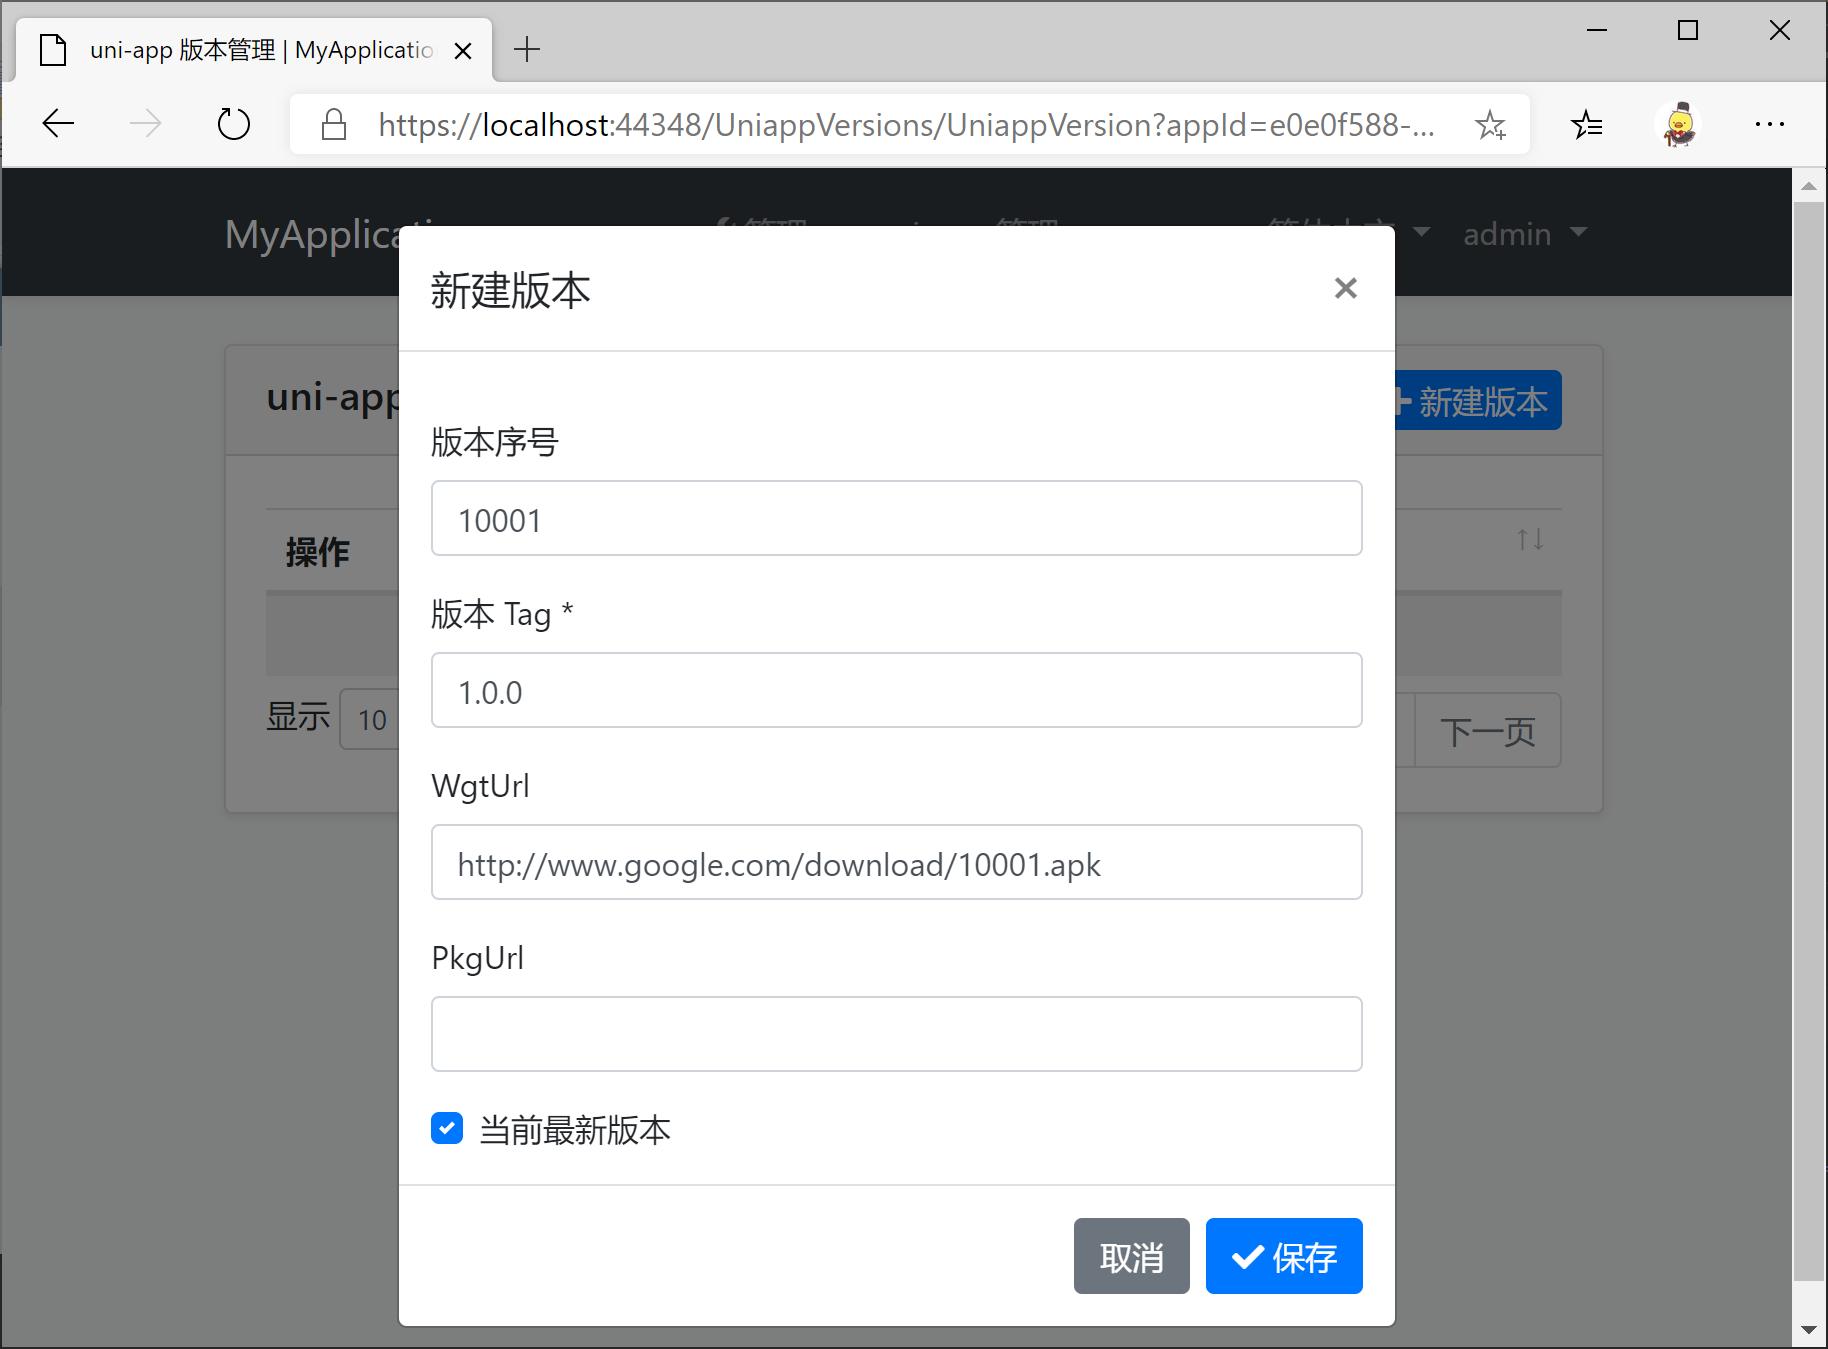
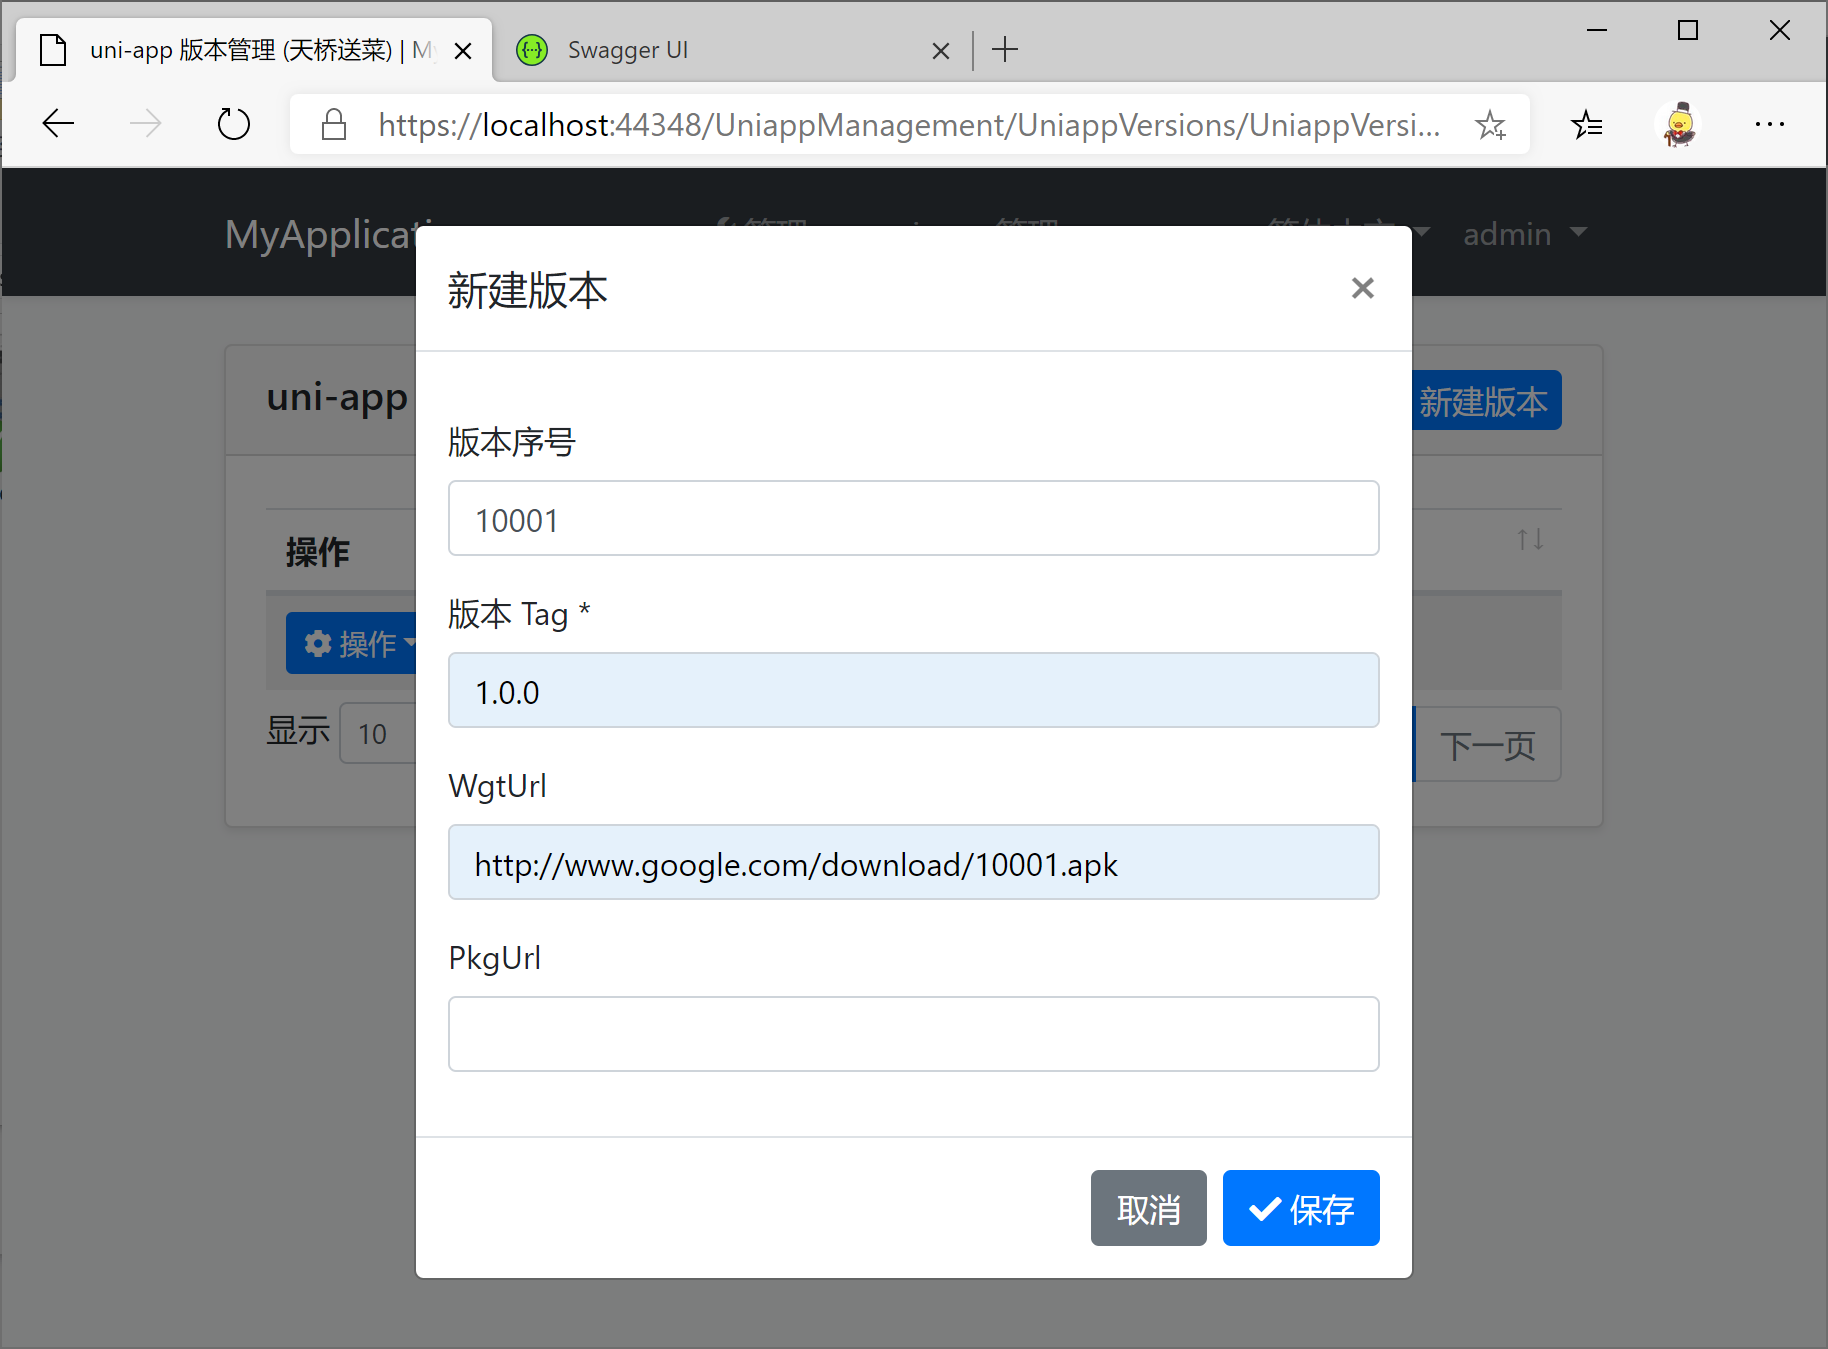
Remove IsLatest from UniappVersion.

diff --git a/src/EasyAbp.UniappManagement.Web/Pages/UniappManagement/UniappVersions/UniappVersion/Index.js b/src/EasyAbp.UniappManagement.Web/Pages/UniappManagement/UniappVersions/UniappVersion/Index.js
@@ -45,8 +45,7 @@ $(function () {
                 }
             },
             { data: "buildNumber" },
-            { data: "tag" },
-            { data: "isLatest" },
+            { data: "tag" }
         ]
     }));
 

diff --git a/src/EasyAbp.UniappManagement.Domain/UniappVersions/UniappVersion.cs b/src/EasyAbp.UniappManagement.Domain/UniappVersions/UniappVersion.cs
@@ -22,8 +22,6 @@ namespace EasyAbp.UniappManagement.UniappVersions
         [CanBeNull]
         public virtual string PkgUrl { get; protected set; }
         
-        public virtual bool IsLatest { get; protected set; }
-        
         protected UniappVersion() { }
 
         public UniappVersion(
@@ -33,8 +31,7 @@ namespace EasyAbp.UniappManagement.UniappVersions
             long buildNumber,
             [NotNull] string tag,
             [CanBeNull] string wgtUrl,
-            [CanBeNull] string pkgUrl,
-            bool isLatest) : base(id)
+            [CanBeNull] string pkgUrl) : base(id)
         {
             TenantId = tenantId;
             AppId = appId;
@@ -42,7 +39,6 @@ namespace EasyAbp.UniappManagement.UniappVersions
             Tag = tag;
             WgtUrl = wgtUrl;
             PkgUrl = pkgUrl;
-            IsLatest = isLatest;
         }
     }
 }

diff --git a/host/EasyAbp.UniappManagement.Web.Unified/Migrations/20200319121848_RemovedIsLatest.Designer.cs b/host/EasyAbp.UniappManagement.Web.Unified/Migrations/20200319121848_RemovedIsLatest.Designer.cs
@@ -4,14 +4,16 @@ using EasyAbp.UniappManagement.EntityFrameworkCore;
 using Microsoft.EntityFrameworkCore;
 using Microsoft.EntityFrameworkCore.Infrastructure;
 using Microsoft.EntityFrameworkCore.Metadata;
+using Microsoft.EntityFrameworkCore.Migrations;
 using Microsoft.EntityFrameworkCore.Storage.ValueConversion;
 
 namespace EasyAbp.UniappManagement.Migrations
 {
     [DbContext(typeof(UnifiedDbContext))]
-    partial class UnifiedDbContextModelSnapshot : ModelSnapshot
+    [Migration("20200319121848_RemovedIsLatest")]
+    partial class RemovedIsLatest
     {
-        protected override void BuildModel(ModelBuilder modelBuilder)
+        protected override void BuildTargetModel(ModelBuilder modelBuilder)
         {
 #pragma warning disable 612, 618
             modelBuilder

diff --git a/host/EasyAbp.UniappManagement.Web.Unified/Migrations/20200319121848_RemovedIsLatest.cs b/host/EasyAbp.UniappManagement.Web.Unified/Migrations/20200319121848_RemovedIsLatest.cs
@@ -1,0 +1,24 @@
+using Microsoft.EntityFrameworkCore.Migrations;
+
+namespace EasyAbp.UniappManagement.Migrations
+{
+    public partial class RemovedIsLatest : Migration
+    {
+        protected override void Up(MigrationBuilder migrationBuilder)
+        {
+            migrationBuilder.DropColumn(
+                name: "IsLatest",
+                table: "UniappManagementUniappVersions");
+        }
+
+        protected override void Down(MigrationBuilder migrationBuilder)
+        {
+            migrationBuilder.AddColumn<bool>(
+                name: "IsLatest",
+                table: "UniappManagementUniappVersions",
+                type: "bit",
+                nullable: false,
+                defaultValue: false);
+        }
+    }
+}

diff --git a/src/EasyAbp.UniappManagement.EntityFrameworkCore/UniappVersions/UniappVersionRepository.cs b/src/EasyAbp.UniappManagement.EntityFrameworkCore/UniappVersions/UniappVersionRepository.cs
@@ -19,8 +19,8 @@ namespace EasyAbp.UniappManagement.UniappVersions
 
         public async Task<UniappVersion> GetLatestByAppIdAsync(Guid appId, CancellationToken cancellationToken = default)
         {
-            var entity = await GetQueryable().FirstOrDefaultAsync(v => v.AppId == appId && v.IsLatest,
-                cancellationToken: cancellationToken);
+            var entity = await GetQueryable().Where(v => v.AppId == appId).OrderByDescending(v => v.BuildNumber)
+                .FirstOrDefaultAsync(cancellationToken);
 
             if (entity == null)
             {

diff --git a/src/EasyAbp.UniappManagement.Web/Pages/UniappManagement/UniappVersions/UniappVersion/ViewModels/CreateUpdateUniappVersionViewModel.cs b/src/EasyAbp.UniappManagement.Web/Pages/UniappManagement/UniappVersions/UniappVersion/ViewModels/CreateUpdateUniappVersionViewModel.cs
@@ -25,8 +25,5 @@ namespace EasyAbp.UniappManagement.Web.Pages.UniappManagement.UniappVersions.Uni
         [Url]
         [Display(Name="UniappVersionPkgUrl")]
         public string PkgUrl { get; set; }
-
-        [Display(Name = "UniappVersionIsLatest")]
-        public bool IsLatest { get; set; } = true;
     }
 }

diff --git a/src/EasyAbp.UniappManagement.Application.Contracts/UniappVersions/Dtos/CreateUpdateUniappVersionDto.cs b/src/EasyAbp.UniappManagement.Application.Contracts/UniappVersions/Dtos/CreateUpdateUniappVersionDto.cs
@@ -22,8 +22,5 @@ namespace EasyAbp.UniappManagement.UniappVersions.Dtos
         [Url]
         [DisplayName("UniappVersionPkgUrl")]
         public string PkgUrl { get; set; }
-
-        [DisplayName("UniappVersionIsLatest")]
-        public bool IsLatest { get; set; }
     }
 }

diff --git a/src/EasyAbp.UniappManagement.Application.Contracts/UniappVersions/Dtos/UniappVersionDto.cs b/src/EasyAbp.UniappManagement.Application.Contracts/UniappVersions/Dtos/UniappVersionDto.cs
@@ -14,7 +14,5 @@ namespace EasyAbp.UniappManagement.UniappVersions.Dtos
         public string WgtUrl { get; set; }
 
         public string PkgUrl { get; set; }
-
-        public bool IsLatest { get; set; }
     }
 }
